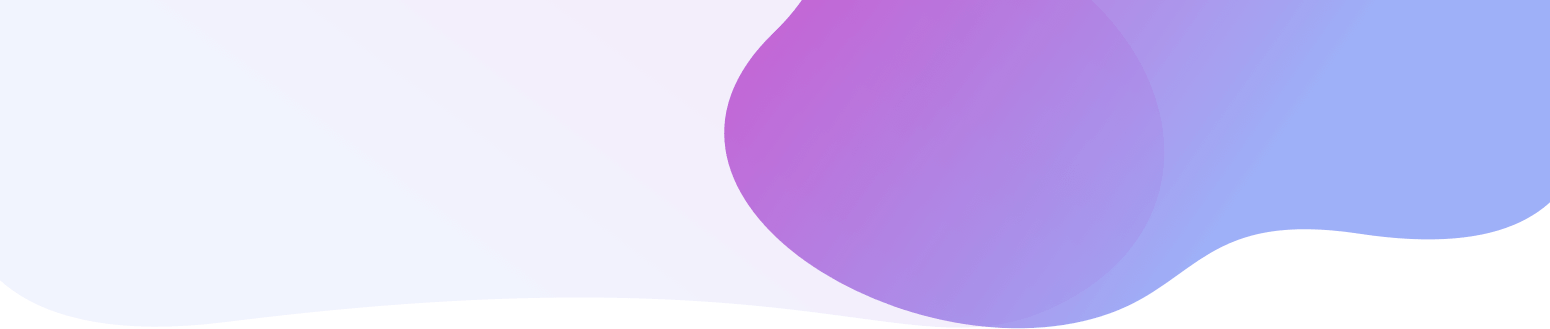
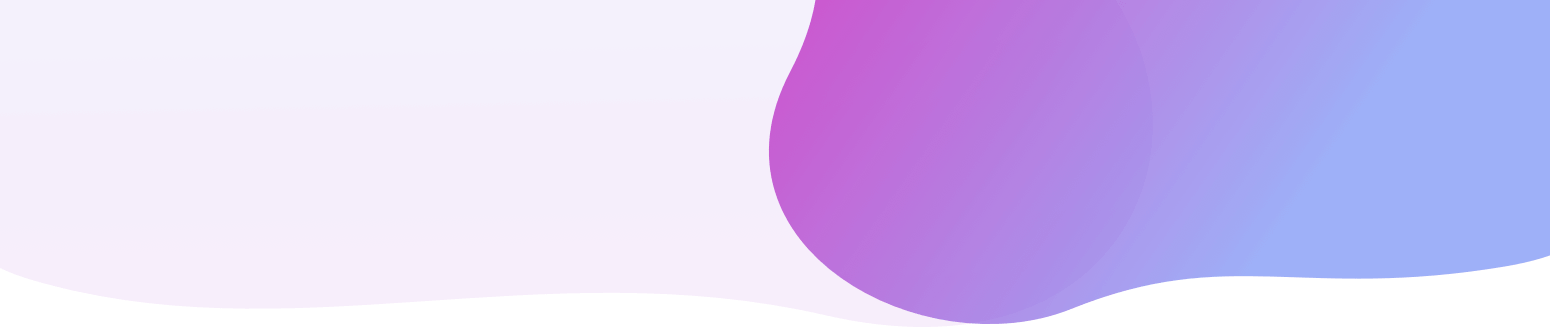
header changes

Changed region(s): [[0.6194, 0.6079, 1.0, 1.0], [0.4645, 0.0, 0.5574, 0.8815]]

diff --git a/frontend/src/components/DesktopComponent/Core/SkillPage/Banner/banner.jsx b/frontend/src/components/DesktopComponent/Core/SkillPage/Banner/banner.jsx
@@ -17,70 +17,69 @@ const BannerSkill = (props) => {
     const dispatch = useDispatch();
 
     return (
-        <header className="container-fluid pos-rel">
-            <figure className="banner-img">
-                <img src={`${imageUrl}desktop/skill-bg-new.png`} className="img-fluid w-100" alt={`${name} Courses & Certifications`} />
-                <div className="banner-right">
-                    <div className="banner-right-img">
-                        <span className="skill-banner-tween1" data-aos="zoom-in" data-aos-easing="ease-in-back" data-aos-offset="0" data-aos-delay="100" data-aos-duration="1000">
-                            <img src={`${imageUrl}desktop/skill-animation-header1.svg`} alt={`${name} Courses Header Banner Animation Icon 1`} />
-                        </span>
-                        <span className="skill-banner-tween2" data-aos="zoom-in" data-aos-easing="ease-in-back" data-aos-offset="0" data-aos-delay="300" data-aos-duration="1000">
-                            <img src={`${imageUrl}desktop/skill-animation-header2.svg`} alt={`${name} Courses  Header Banner Animation Icon 2`} />
-                        </span>
-                        <span className="skill-banner-tween3" data-aos="zoom-in" data-aos-easing="ease-in-back" data-aos-offset="0" data-aos-delay="500" data-aos-duration="1000">
-                            <img src={`${imageUrl}desktop/skill-animation-header3.svg`} alt={`${name} Courses  Header Banner Animation Icon 3`} />
-                        </span>
-                        <span className="skill-banner-tween4" data-aos="zoom-in" data-aos-easing="ease-in-back" data-aos-offset="0" data-aos-delay="700" data-aos-duration="1000">
-                            <img src={`${imageUrl}desktop/skill-animation-header4.svg`} alt={`${name} Courses  Header Banner Animation Icon 4`} />
-                        </span>
-                        <span className="skill-banner-tween5" data-aos="zoom-in" data-aos-easing="ease-in-back" data-aos-offset="0" data-aos-delay="900" data-aos-duration="1000">
-                            <img src={`${imageUrl}desktop/skill-animation-header5.svg`} alt={`${name} Courses  Header Banner Animation Icon 5`} />
-                        </span>
-                        <span className="skill-banner-tween6" data-aos="zoom-in" data-aos-easing="ease-in-back" data-aos-offset="0" data-aos-delay="1100" data-aos-duration="1000">
-                            <img src={`${imageUrl}desktop/skill-animation-header6.svg`} alt={`${name} Courses  Header Banner Animation Icon 6`} />
-                        </span>
-                        <span className="skill-banner-tween7" data-aos="zoom-in" data-aos-easing="ease-in-back" data-aos-offset="0" data-aos-delay="1300" data-aos-duration="1000">
-                            <img src={`${imageUrl}desktop/skill-animation-header7.svg`} alt={`${name} Courses  Header Banner Animation Icon 7`} />
-                        </span>
-                    </div>
-                </div>
-            </figure>
-            <div className="container header-content">
-                <div className="row" >
-                    <Breadcrumb itemScope itemType="http://schema.org/BreadcrumbList">
-                        {
-                            breadcrumbs?.map((bread, index) => {
-                                if (!!bread.url)
+        <header className="container-fluid pos-rel home-bg">
+            <div className="row">
+                <div className="container header-content">
+                    <div className="w-50">
+                        <Breadcrumb itemScope itemType="http://schema.org/BreadcrumbList">
+                            {
+                                breadcrumbs?.map((bread, index) => {
+                                    if (!!bread.url)
+                                        return (
+                                        <Breadcrumb.Item itemProp="itemListElement" itemScope
+                                            itemType="http://schema.org/ListItem" key={index} href={`${siteDomain}${bread.url}`} onClick={() => userTrack({ "query": tracking_data, "action": "exit_skill_page" })}  ><span itemProp="item" content={`${siteDomain}${bread.url}`}>{bread.name}</span>
+                                            <meta itemProp="name" content={bread.name} />
+                                            <meta itemProp="position" content={index} /></Breadcrumb.Item>
+                                            )
+                                    else
+                                        return (<Breadcrumb.Item key={index}  >{bread.name}
+                                            </Breadcrumb.Item>)
+                                })
+                            }
+                        </Breadcrumb>
+                        <h1 className="heading1" data-aos="fade-right">
+                            {name} Courses & Certifications
+                        </h1>
+                        <Carousel className={featuresList?.length ? "header-carousel" : "header-carousel noslide"}>
+                            {/* <figure className="icon-round-arrow"></figure> */}
+                            {
+                                featuresList?.map((feature, index) => {
                                     return (
-                                    <Breadcrumb.Item itemProp="itemListElement" itemScope
-                                        itemType="http://schema.org/ListItem" key={index} href={`${siteDomain}${bread.url}`} onClick={() => userTrack({ "query": tracking_data, "action": "exit_skill_page" })}  ><span itemProp="item" content={`${siteDomain}${bread.url}`}>{bread.name}</span>
-                                        <meta itemProp="name" content={bread.name} />
-                                        <meta itemProp="position" content={index} /></Breadcrumb.Item>
-                                        )
-                                else
-                                    return (<Breadcrumb.Item key={index}  >{bread.name}
-                                        </Breadcrumb.Item>)
-                            })
-                        }
-                    </Breadcrumb>
-                    <h1 className="heading1" data-aos="fade-right">
-                        {name} Courses & Certifications
-                    </h1>
-                    <Carousel className={featuresList?.length ? "header-carousel" : "header-carousel noslide"}>
-                        {/* <figure className="icon-round-arrow"></figure> */}
-                        {
-                            featuresList?.map((feature, index) => {
-                                return (
-                                    <Carousel.Item key={index} >
-                                        <p key={Math.random()}>
-                                            <span className="flex-1">{feature}</span>
-                                        </p>
-                                    </Carousel.Item>
-                                )
-                            })
-                        }
-                    </Carousel>
+                                        <Carousel.Item key={index} >
+                                            <p key={Math.random()}>
+                                                <span className="flex-1">{feature}</span>
+                                            </p>
+                                        </Carousel.Item>
+                                    )
+                                })
+                            }
+                        </Carousel>
+                    </div>
+                    <div className="banner-right">
+                        <div className="banner-right-img">
+                            <span className="skill-banner-tween1" data-aos="zoom-in" data-aos-easing="ease-in-back" data-aos-offset="0" data-aos-delay="100" data-aos-duration="1000">
+                                <img src={`${imageUrl}desktop/skill-animation-header1.svg`} alt={`${name} Courses Header Banner Animation Icon 1`} />
+                            </span>
+                            <span className="skill-banner-tween2" data-aos="zoom-in" data-aos-easing="ease-in-back" data-aos-offset="0" data-aos-delay="300" data-aos-duration="1000">
+                                <img src={`${imageUrl}desktop/skill-animation-header2.svg`} alt={`${name} Courses  Header Banner Animation Icon 2`} />
+                            </span>
+                            <span className="skill-banner-tween3" data-aos="zoom-in" data-aos-easing="ease-in-back" data-aos-offset="0" data-aos-delay="500" data-aos-duration="1000">
+                                <img src={`${imageUrl}desktop/skill-animation-header3.svg`} alt={`${name} Courses  Header Banner Animation Icon 3`} />
+                            </span>
+                            <span className="skill-banner-tween4" data-aos="zoom-in" data-aos-easing="ease-in-back" data-aos-offset="0" data-aos-delay="700" data-aos-duration="1000">
+                                <img src={`${imageUrl}desktop/skill-animation-header4.svg`} alt={`${name} Courses  Header Banner Animation Icon 4`} />
+                            </span>
+                            <span className="skill-banner-tween5" data-aos="zoom-in" data-aos-easing="ease-in-back" data-aos-offset="0" data-aos-delay="900" data-aos-duration="1000">
+                                <img src={`${imageUrl}desktop/skill-animation-header5.svg`} alt={`${name} Courses  Header Banner Animation Icon 5`} />
+                            </span>
+                            <span className="skill-banner-tween6" data-aos="zoom-in" data-aos-easing="ease-in-back" data-aos-offset="0" data-aos-delay="1100" data-aos-duration="1000">
+                                <img src={`${imageUrl}desktop/skill-animation-header6.svg`} alt={`${name} Courses  Header Banner Animation Icon 6`} />
+                            </span>
+                            <span className="skill-banner-tween7" data-aos="zoom-in" data-aos-easing="ease-in-back" data-aos-offset="0" data-aos-delay="1300" data-aos-duration="1000">
+                                <img src={`${imageUrl}desktop/skill-animation-header7.svg`} alt={`${name} Courses  Header Banner Animation Icon 7`} />
+                            </span>
+                        </div>
+                    </div>
                 </div>
             </div>
         </header>

diff --git a/frontend/src/components/DesktopComponent/Core/SkillPage/Banner/banner.scss b/frontend/src/components/DesktopComponent/Core/SkillPage/Banner/banner.scss
@@ -3,101 +3,96 @@
 @import '../../../../../styles/mixins';
 
 header {
-    .banner-img {
+    &.home-bg {
+        background: url(/media/images/desktop/skill-bg-new.png) no-repeat center top;
+        background-size: cover;
+    }
+
+    .banner-right {
         position: relative;
-        z-index: 9;
-        margin-left: -1.5rem;
-        margin-right: -1.5rem;
+        top: 1rem;
+        right: 0;
+        flex: 1;
 
-        .banner-right {
-            position: absolute;
-            top: 1rem;
-            right: 27%;
+        .banner-right-img {
+            position: relative;
+            width: 30.4rem;
+            height: 30rem;
 
-            .banner-right-img {
-                position: relative;
-                width: 304px;
-                height: 282px;
-
-
-                    > .skill-banner-tween1 {
-                        position: absolute;
-                        top: 0;
-                        left: -4rem;
-                        z-index: 9;
-                        max-width: 100%;
-                    }
-                    > .skill-banner-tween2 {
-                        position: absolute;
-                        top: 6.5rem;
-                        left: 2.5rem;
-                        z-index: 99;
-                        
-                        img {
-                            max-width: 27rem;
-                        }
-                    }
-                    > .skill-banner-tween3 {
-                        position: absolute;
-                        top: 14.5rem;
-                        right: 0;
-                        z-index: 999;
-                        
-                        img {
-                            width: 8.5rem;
-                        }
-                    }
-                    > .skill-banner-tween4 {
-                        position: absolute;
-                        top: 11rem;
-                        left: 4rem;
-                        z-index: 9999;
-                        
-                        img {
-                            width: 19rem;
-                        }
-                    }
-                    > .skill-banner-tween5 {
-                        position: absolute;
-                        bottom: 1rem;
-                        right: 10.5rem;
-                        z-index: 99999;
-                        
-                        img {
-                            width: 6.5rem;
-                        }
-                    }
-                    > .skill-banner-tween6 {
-                        position: absolute;
-                        bottom: 0;
-                        left: 4rem;
-                        z-index: 999999;
-                        
-                        img {
-                            width: 7.5rem;
-                        }
-                    }
-                    > .skill-banner-tween7 {
-                        position: absolute;
-                        bottom: 10rem;
-                        left: 1rem;
-                        z-index: 9999999;
-                        
-                        img {
-                            width: 5rem;
-                        }
-                    }
-                
+            > .skill-banner-tween1 {
+                position: absolute;
+                top: 0;
+                left: -1rem;
+                z-index: 9;
+                max-width: 100%;
             }
+            > .skill-banner-tween2 {
+                position: absolute;
+                top: 6.5rem;
+                left: 2.5rem;
+                z-index: 99;
+                
+                img {
+                    max-width: 27rem;
+                }
+            }
+            > .skill-banner-tween3 {
+                position: absolute;
+                top: 14.5rem;
+                right: 0;
+                z-index: 999;
+                
+                img {
+                    width: 8.5rem;
+                }
+            }
+            > .skill-banner-tween4 {
+                position: absolute;
+                top: 11rem;
+                left: 4rem;
+                z-index: 9999;
+                
+                img {
+                    width: 19rem;
+                }
+            }
+            > .skill-banner-tween5 {
+                position: absolute;
+                bottom: 1rem;
+                right: 10.5rem;
+                z-index: 9999;
+                
+                img {
+                    width: 6.5rem;
+                }
+            }
+            > .skill-banner-tween6 {
+                position: absolute;
+                bottom: 0;
+                left: 4rem;
+                z-index: 9999;
+                
+                img {
+                    width: 7.5rem;
+                }
+            }
+            > .skill-banner-tween7 {
+                position: absolute;
+                bottom: 10rem;
+                left: 1rem;
+                z-index: 9999;
+                
+                img {
+                    width: 5rem;
+                }
+            }
+            
         }
     }
 
     .header-content {
-        position: absolute;
-        z-index: 99;
-        width: 40%;
-        top: 0;
-        left: 3.5rem;
+        position: relative;
+        display: flex;
 
         p {
             width: 90%;
